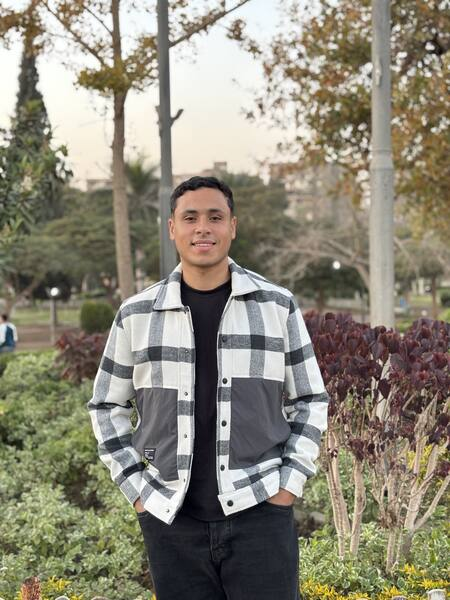
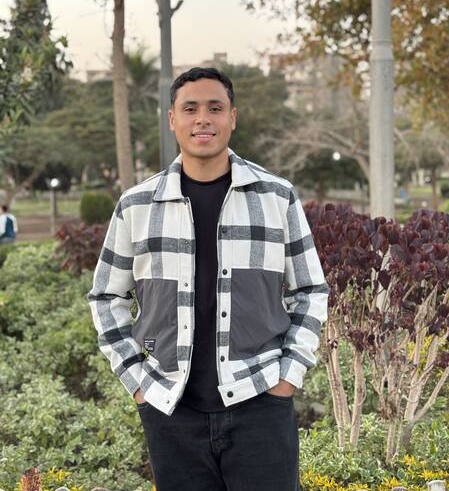
added anas ghazy

diff --git a/script.js b/script.js
@@ -121,13 +121,14 @@ const STUDENTS = [
         },
     },
     {
-        name: 'Ali Ibrahim',
-        photo: 'Pic/ali.jpeg',
-        track: 'Network',
-        color: 'linear-gradient(135deg, #f59e0b, #b45309)',
+        name: 'Anas Ghazy',
+        photo: 'Pic/anas.jpeg',
+        track: ['Network Engineer'],
+        color: 'linear-gradient(135deg, #ec4899, #be185d)',
         social: {
-            whatsapp:  '+201023150203',
-            facebook:  'https://www.facebook.com/share/18doCrAE9q/',
+            linkedin:  'https://www.linkedin.com/in/anas-ghazy-aaa896323',
+            whatsapp:  '+201025145996',
+            facebook:  'https://www.facebook.com/share/173eunCXL5/?mibextid=wwXIfr',
         },
     },
     {